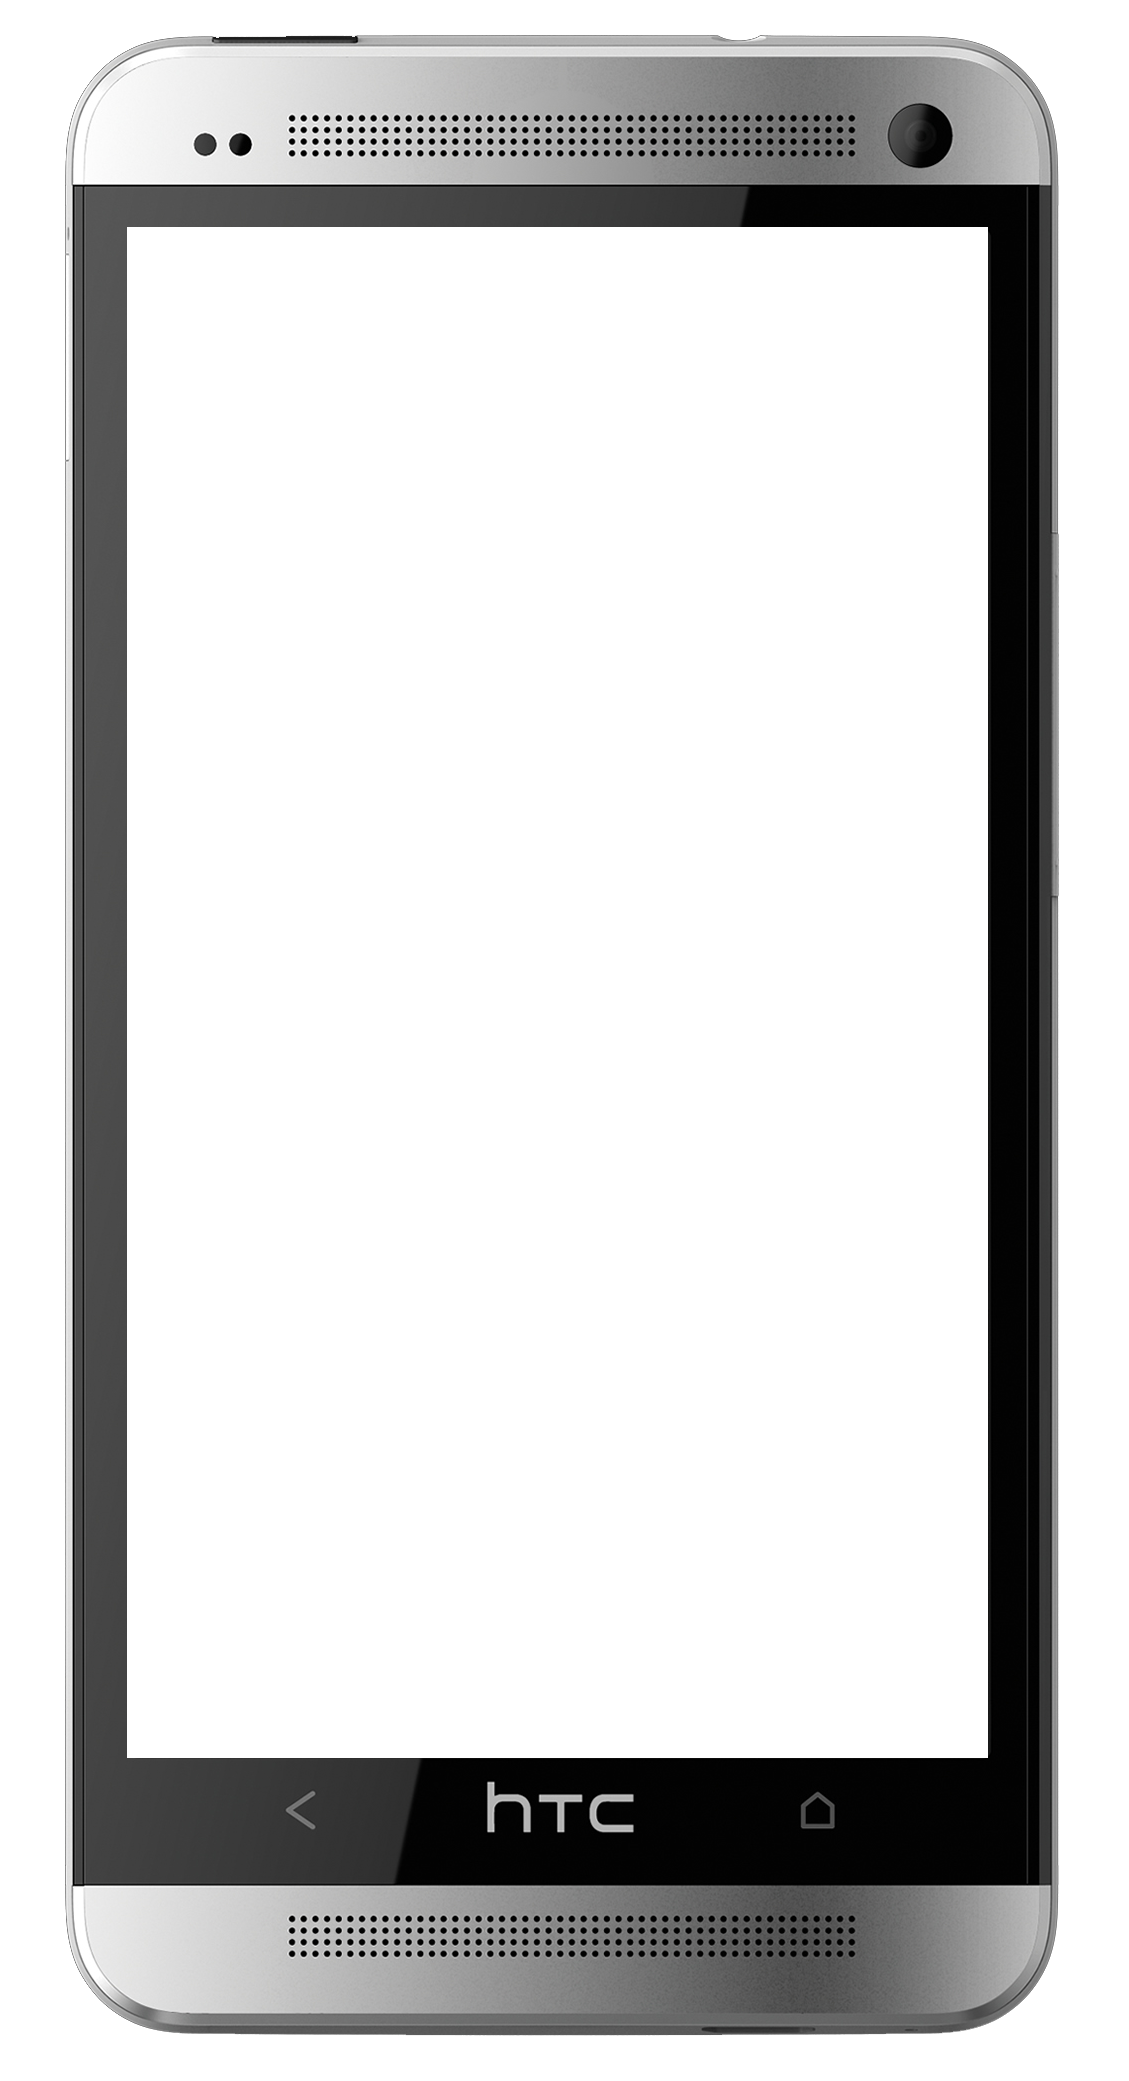
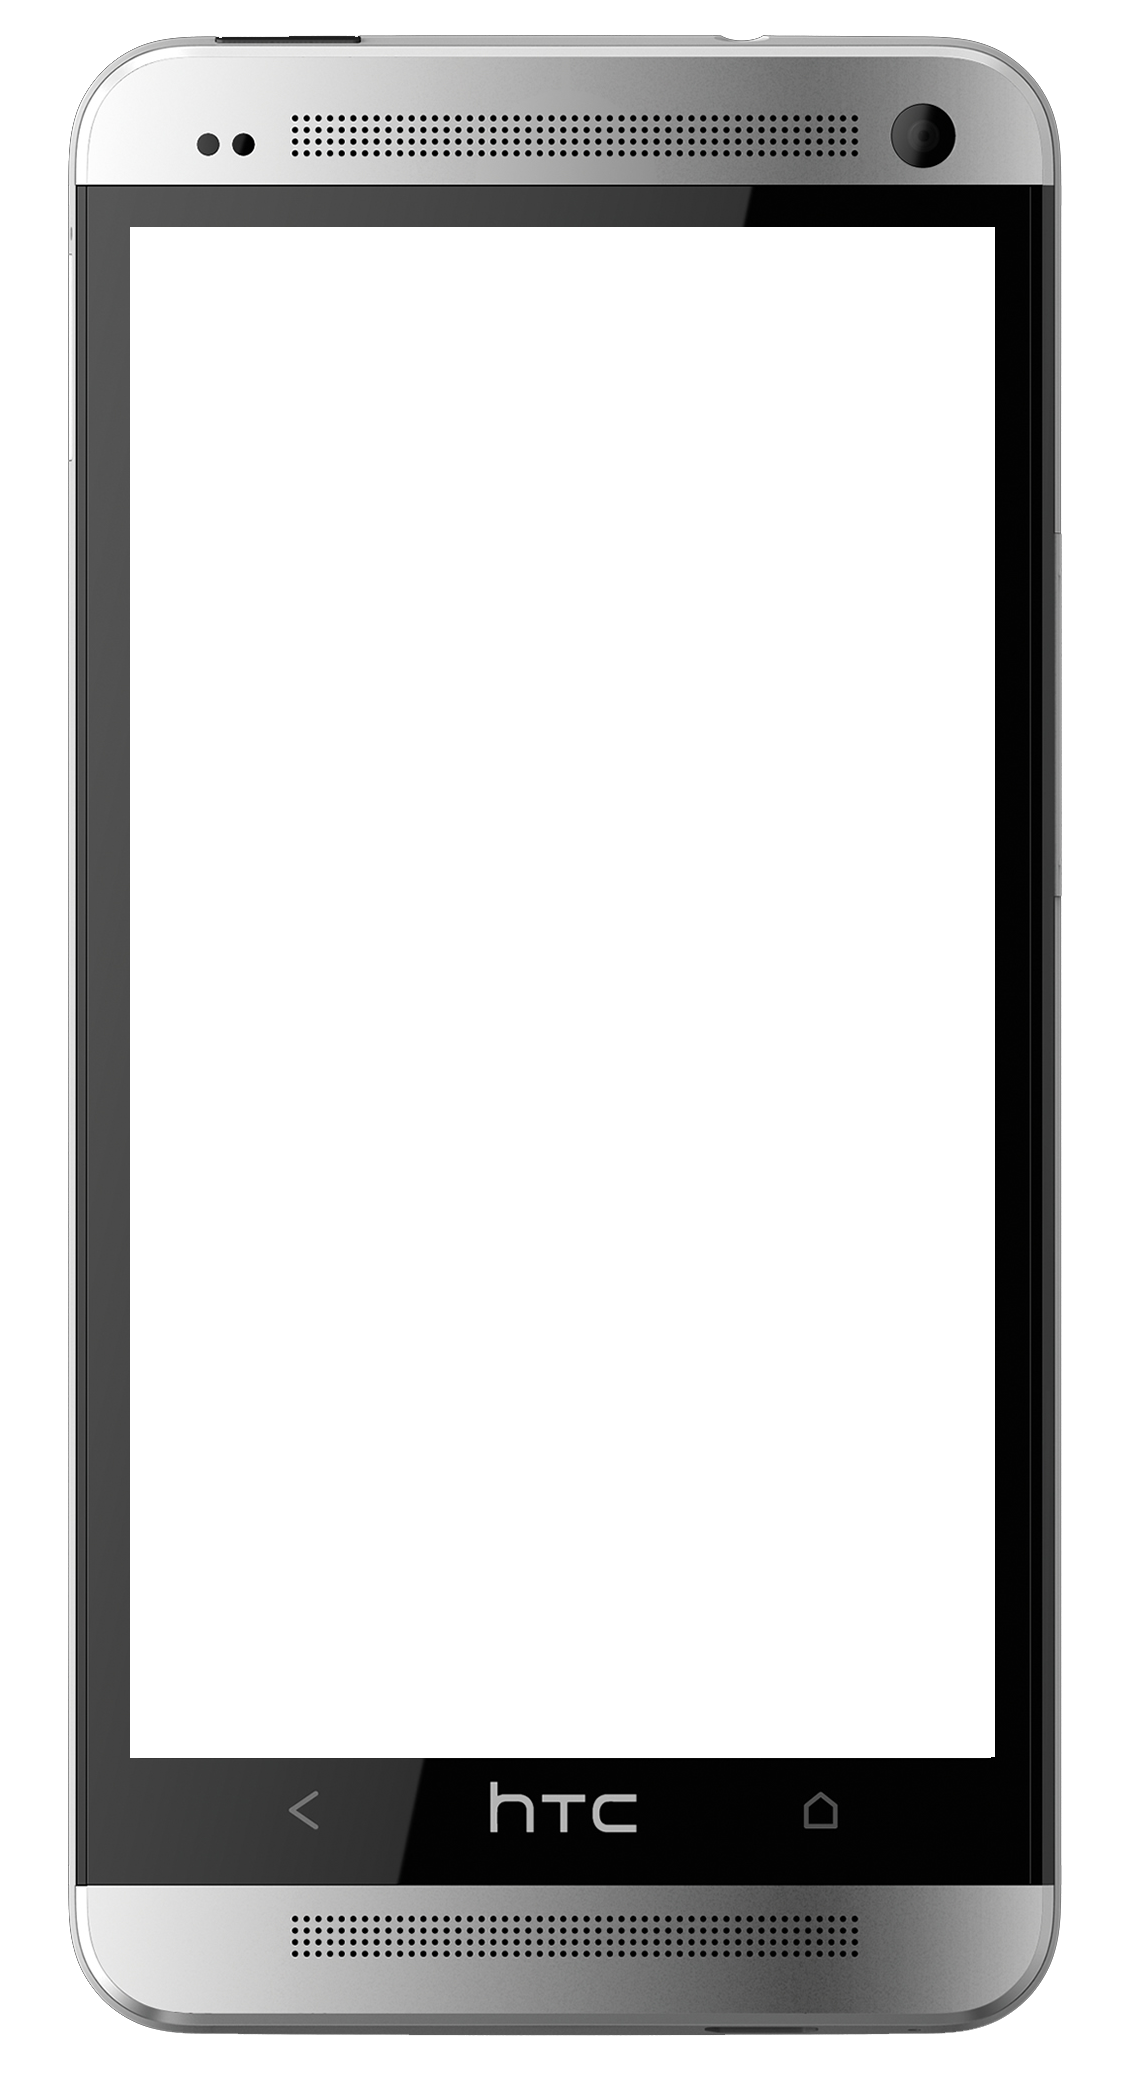
Managed to have the iframe element (which acts as the screen of the phone) in the middle  of the page, exactly within the phone border boundaries. The problem was having the iframe on top of the img. The second problem was having the iframe element centred at all times for all screens. Both problems

diff --git a/templates/index.html b/templates/index.html
@@ -7,14 +7,14 @@
 </head>
 
 <body>
-<div class="phone" id="phoneborder" >
-	<img src="images/phone.png" height="700" align="middle" style="z-index:-1;" />
-</div>
-<div class="screen" id="phonescreen">
-  <iframe width="291" height="516" src="http://upload.wikimedia.org/wikipedia/commons/thumb/8/85/Smiley.svg/640px-Smiley.svg.png" 		border="0" frameborder="0" allowTransparency="true" style="top:0;">
-      Your browser does not support inline frames.</iframe>
-</div>
+<div class="phone">
+	<img src="images/phone.png" height="700" align="middle" style="z-index:0;" />
 
+	<div class="screen">
+    	<iframe width="289" height="516" src="http://upload.wikimedia.org/wikipedia/commons/thumb/8/85/Smiley.svg/640px-Smiley.svg.png" frameborder="0" allowTransparency="true" align="middle" style="z-index:10" seamless="seamless" scrolling="no">
+      		Your browser does not support inline frames.</iframe>
+    </div>
+</div>
     
 </body>
 </html>

diff --git a/templates/css/main.css b/templates/css/main.css
@@ -12,6 +12,23 @@ body{
     padding:0px;
 }
 .screen{
-    text-align:center;
-	top:0;
+	font-size: 32px;
+  	position: absolute;
+  	left: 50%;
+  	top: 82px;
+ /*
+  	margin-left: -0.01%;
+	
+  	margin-top: -25%;
+  	*/
+  	/* 
+  	Yep!
+  	*/
+  	transform: translate(-50%, -50%);
+  	/*
+  	Not even necessary really. 
+  	e.g. Height could be left out!
+  	*/
+  	width:40%;
+	height:0%;
 }
